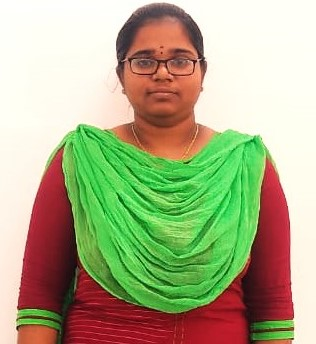
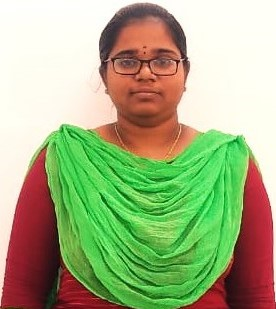
first change

diff --git a/index.html b/index.html
@@ -25,7 +25,7 @@
         <div id="AboutMe">
             <div class="about">
                 <div>
-                    <img class="img" src="images\anu1.jpeg" >
+                    <img class="img" src="images\anu.png" >
                 </div>
                 <div class="aboutme">
                     <h1 style="color: rgb(239, 155, 82);">Hello!!! I'm Anusurya </h1>
@@ -121,9 +121,37 @@
         
         <div id="projects">
             <h1>Project Details </h1>
-            <div class="pros">
+            <div class="pros111">
+                <div class="pros">
+                
+                    <div class="projects">
+                        <h3>Project 1</h3>
+                                <ul>
+                                    <li><b>Title:</b> Portfolio web page</li>
+                                    <li><strong>Technology Used: </strong>HTML, CSS, JS</li>
+                                    <li><b>Duration:</b> 15 days</li>
+                                    <li><b>Description: </b>This is a webpage which contains the details about me, my project works, skills, etc..</li>
+                                    <li><b>Website link:</b><a href=" https://anusuryas.github.io/AnuPortfolio/" target="_blank"> https://anusuryas.github.io/AnuPortfolio/</a></li>
+                                </ul>
+                    </div>
+                    
+                    <div class="projects">
+                        <h3>Project 2</h3>
+                                <ul>
+                                    <li><b>Title:</b> Random Quote Generator </li>
+                                    <li><b>Technology Used: </b>HTML, CSS, JS</li>
+                                    <li><b>Duration:</b> 1 week</li>
+                                    <li><b>Description:</b>It is a web appliction which will generate a random Quotes based on the click function, 
+                                        js is used to generate random Quotes and romdom Background color. </li>
+                                    <li><b>Website link:</b><a href="https://bespoke-snickerdoodle-1e7d35.netlify.app/" target="_blank">https://bespoke-snickerdoodle-1e7d35.netlify.app/</a></li>
+                                 </ul>
+                    </div>
+                           
+                </div>
+                <div class="pros">
+                
                 <div class="projects">
-                    <h3>Project 1</h3>
+                    <h3>Project 3</h3>
                             <ul>
                                 <li><b>Title</b>: Restaurant Management system</li>
                                 <li><strong>Technology Used: </strong>MVC Framework- Laravel</li>
@@ -133,7 +161,7 @@
                 </div>
                 
                 <div class="projects">
-                    <h3>Project 2</h3>
+                    <h3>Project 4</h3>
                             <ul>
                                 <li><b>Title:</b> Heart Disease prediction System </li>
                                 <li><b>Technology Used: </b>ML-Logistic Regression</li>
@@ -143,9 +171,9 @@
                                  history such as chest pain, sugar level, blood pressure, etc. done using a logistic regression algorithm. </li>
                              </ul>
                 </div>
-
+                       
+                </div>
             </div>
-            
         </div>
         
         <div id="intern">

diff --git a/index.css b/index.css
@@ -2,20 +2,20 @@ body{
     background-color: #d2d8d6;
 }
 .img{
-    height: 40%;
-    width: 95%;
+    height: 50%;
+    width: 100%;
     display: inline;
    margin-top: 10%;
    margin-left: 20%;
     background-color: #d2d8d6;
     border-radius: 60%;
-    box-shadow: 0px 30px 20px 0px #1c1b1b;
+    
 }
 .aboutme{
     width:60%;
-    height: 75%;
-    padding: 25px;
-    margin:20px 60px ;
+    height: 80%;
+    padding: 20px;
+    margin:10px 60px ;
     border:5px;
     border-radius: 3em;
     background-color: #fcfcfc;
@@ -166,21 +166,26 @@ p{
     background-color:#fcfcfc;
     box-shadow: 0px 30px 20px 0px #1c1b1b;
     padding: 40px;
-    margin:60px ;
+    margin:40px 30px;
     border:5px;
     border-radius: 3em;
     font-size: larger;
 }
 
 .pros{
-    margin:50px 130px;
+    
     display: flex;
-    flex-direction: row;
+    flex-direction:row;
+
+}
+.pros111{
+    margin:50px 100px;
     width:85%;
     border:5px;
     border-radius: 4em;
     background-color: rgba(55, 224, 224, 0.831);
 }
+
 
 .intern{
     width:50%;
